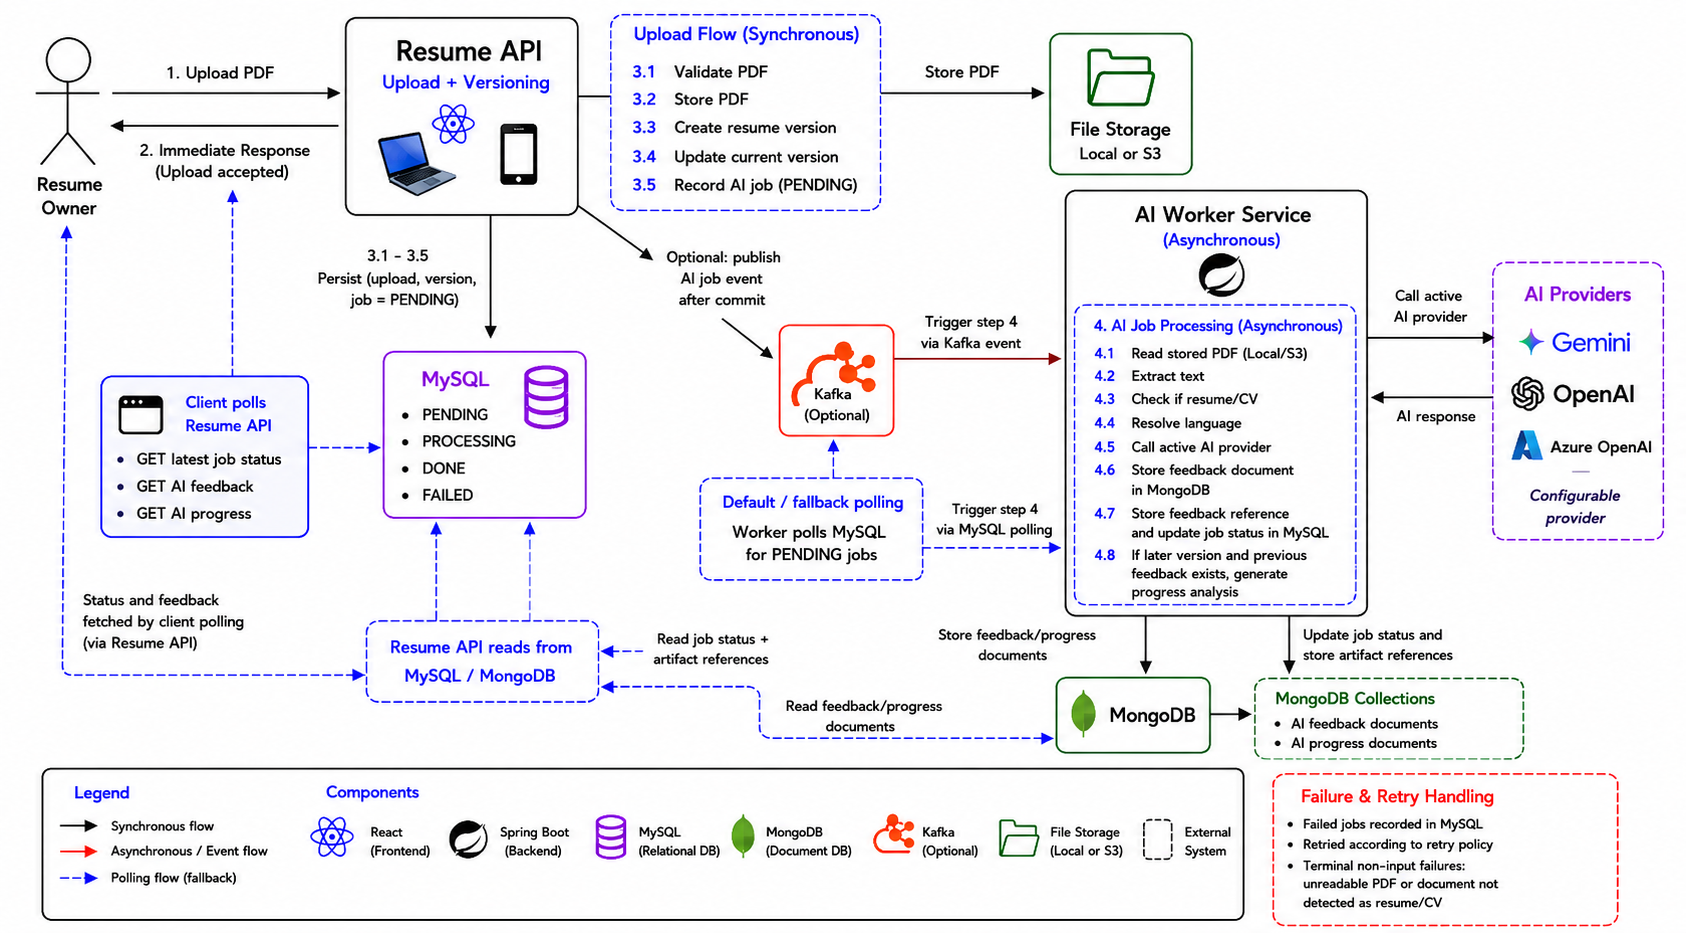
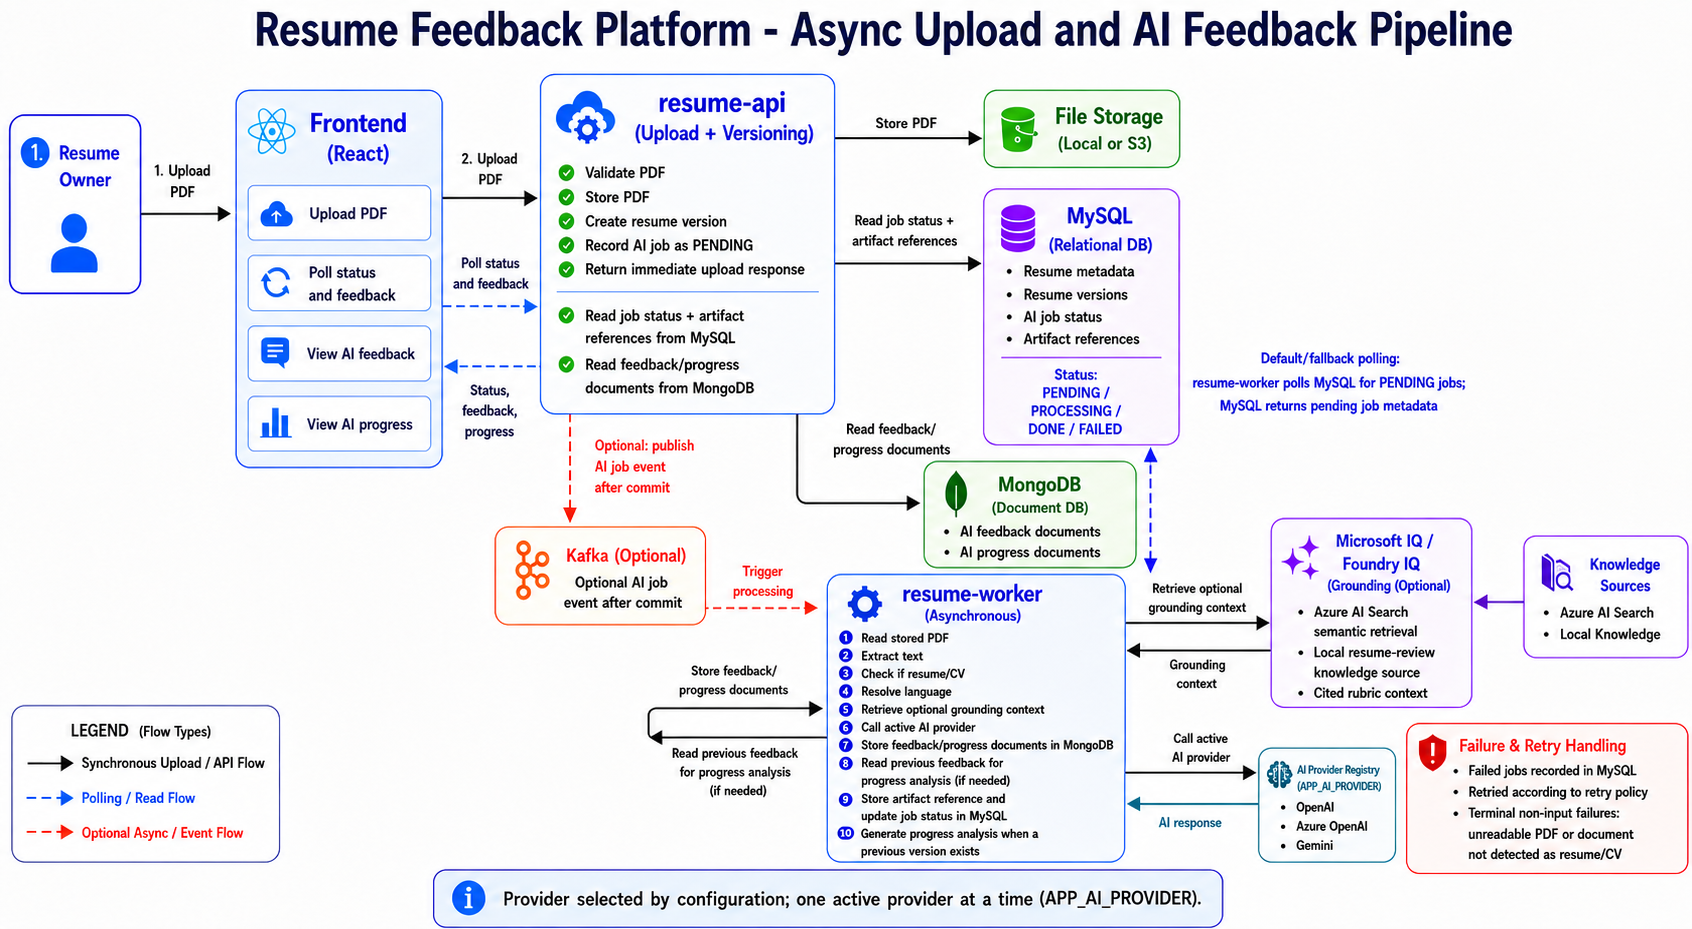
docs: add submission architecture diagrams

diff --git a/README.md b/README.md
@@ -1,10 +1,10 @@
 # Resume Feedback Platform
 
-**Resume Feedback Platform is featured in the [Handshake AI Showcase](https://app.joinhandshake.com/ai-showcase?project_id=3056375).**
+**Resume Feedback Platform helps candidates turn resume feedback from a one-time, subjective review into a repeatable improvement loop. Users can upload a resume in Portuguese or English, get structured language-aware AI feedback, track progress across versions, and share controlled review links with mentors, recruiters, or peers.**
+
+[Live Demo](https://feedback.hmpedro.com).
 
 ![Live Demo Image](/docs/project-images/live-demo-home-page.png)
-
-Resume Feedback Platform helps candidates turn resume feedback from a one-time, subjective review into a repeatable improvement loop. Users can upload a resume in Portuguese or English, get structured language-aware AI feedback, track progress across versions, and share controlled review links with mentors, recruiters, or peers.
 
 This repo is the backend monorepo for Resume Feedback Platform. The frontend is a separate React + TypeScript application hosted on AWS Amplify, while this repository contains the Spring Boot API and worker services deployed on Heroku. Development was assisted by GitHub Copilot inside VS Code.
 
@@ -41,7 +41,7 @@ Resume Feedback Platform creates a single workflow for resume iteration:
 - Architecture: [docs/project-documentation/architecture.md](docs/project-documentation/architecture.md)
 - Operations: [docs/project-documentation/operations.md](docs/project-documentation/operations.md)
 
-## What We Built
+## What I Built
 
 - **Real product**: there is a deployed UI and a working end-to-end workflow.
 - **AI feedback is asynchronous**: uploads stay responsive while a background worker processes LLM jobs.
@@ -54,6 +54,8 @@ Resume Feedback Platform creates a single workflow for resume iteration:
 - The **Microsoft IQ / Foundry IQ grounding layer** can inject cited resume-review knowledge into feedback and progress prompts through `APP_AI_FEEDBACK_FOUNDRY_IQ_ENABLED`, with Azure AI Search support for semantic retrieval.
 
 ## Core product flow
+
+![Async upload and AI feedback pipeline](docs/project-images/resume-feedback-async-upload-ai-pipeline.png)
 
 1. Sign in and upload a resume PDF.
 2. The API stores metadata and creates an AI job.

diff --git a/common/README.md b/common/README.md
@@ -1,5 +1,7 @@
 # common
 
+![Common Module Overview Image](/docs/project-images/common-module-overview.png)
+
 Shared contracts and cross-module models.
 
 For platform context and architecture, see the [root README](../README.md).
@@ -10,9 +12,10 @@ For platform context and architecture, see the [root README](../README.md).
 
 ## Responsibilities
 
-- Shared Kafka payload contracts (for AI jobs)
+- Shared Kafka payload contracts for AI jobs
 - Shared DTO-like records and utility models
-- Reduce duplication and keep integration contracts consistent
+- Reduced duplication across module boundaries
+- Consistent integration contracts between API and worker flows
 
 ## Key Dependencies
 
@@ -22,6 +25,7 @@ For platform context and architecture, see the [root README](../README.md).
 ## Usage
 
 Imported as a module dependency by:
+
 - `resume-api`
 - `resume-worker`
 

diff --git a/docs/project-documentation/architecture.md b/docs/project-documentation/architecture.md
@@ -12,6 +12,8 @@ Related docs:
 
 ## High-Level Components
 
+![Overall architecture diagram](../project-images/overall-architecture-diagram.png)
+
 - `resume-api`
   - Auth, resume, sharing, comments, AI job orchestration
   - Creates `AiJob` records and supports optional Kafka publishing
@@ -26,6 +28,8 @@ Related docs:
   - Kafka: optional AI jobs topic integration
 
 ## Data Flow
+
+![Async upload and AI feedback pipeline](../project-images/resume-feedback-async-upload-ai-pipeline.png)
 
 ```mermaid
 flowchart LR

diff --git a/docs/agents-league-submission.md b/docs/agents-league-submission.md
@@ -77,6 +77,8 @@ This aligns with the challenge's Foundry IQ direction: agentic knowledge retriev
 
 ## Architecture Summary
 
+![Async upload and AI feedback pipeline](project-images/resume-feedback-async-upload-ai-pipeline.png)
+
 The backend is a multi-module Spring Boot system:
 
 - `resume-api`: authentication, resume upload, versioning, share links, comments, AI job orchestration, and read APIs.